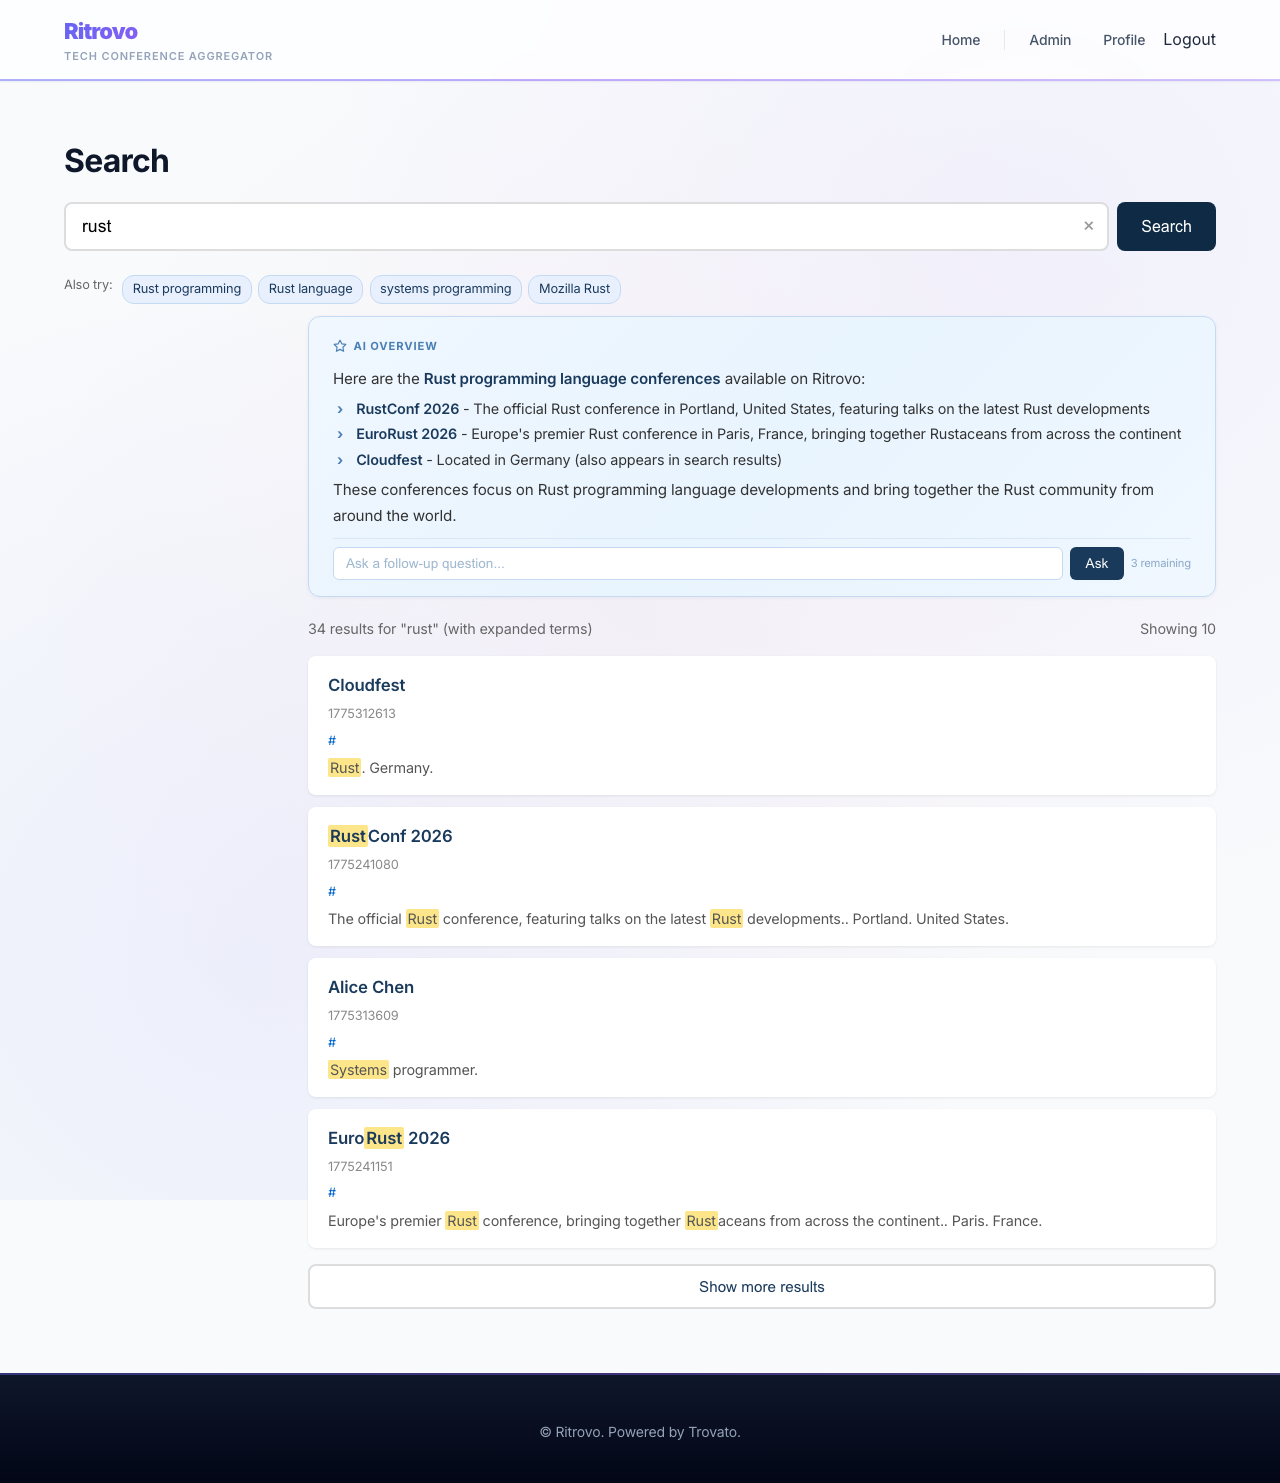
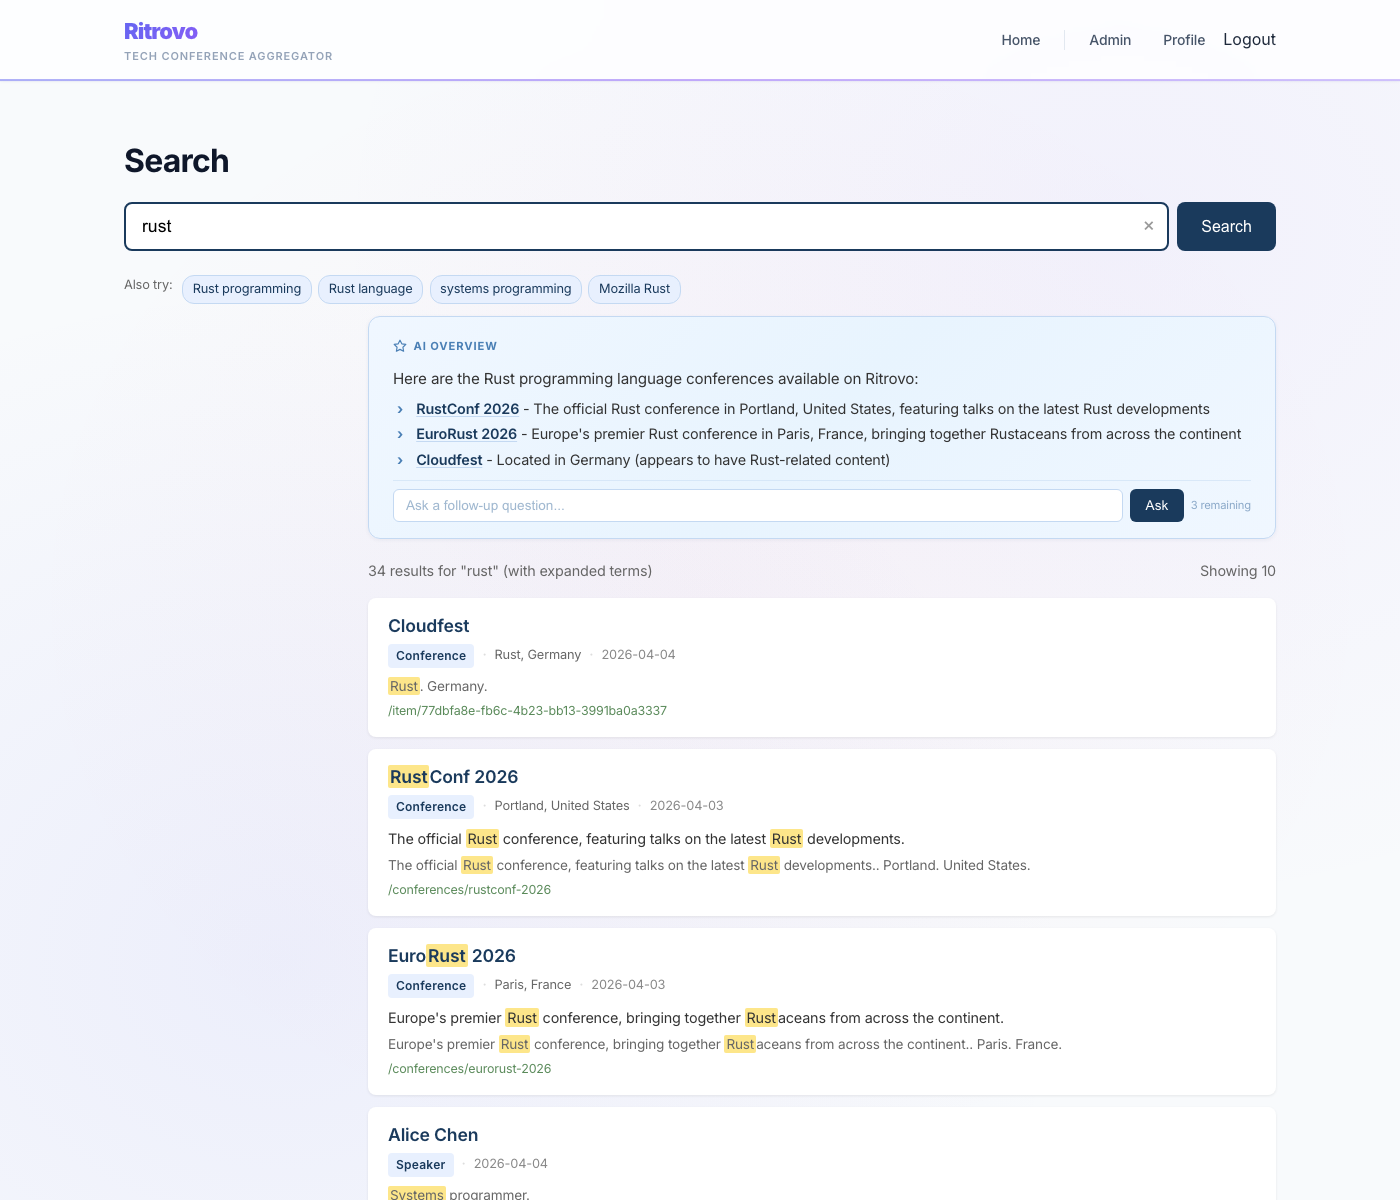
feat: enrich search results with metadata, friendly URLs, and descriptions
Pagefind index now includes structured metadata: description, location
(city + country), event dates, and content type. URL aliases are
batch-loaded so result links use friendly paths (/conferences/rustconf-2026)
instead of /item/{uuid}. Dates formatted as YYYY-MM-DD instead of raw
unix timestamps.

scolta.js renders richer result cards with type badges, location, event
dates, descriptions, and dot-separated metadata. Auto-searches from URL
?q= parameter on page load. scolta.css adds styles for new metadata
elements with visual separators.

diff --git a/static/js/scolta.js b/static/js/scolta.js
@@ -377,6 +377,11 @@
     return text.replace(/<[^>]*>/g, "");
   }
 
+  // Convert machine_name type to display label: "conference" → "Conference"
+  function formatTypeName(t) {
+    return t.replace(/_/g, " ").replace(/\b\w/g, function (c) { return c.toUpperCase(); });
+  }
+
   // Build LLM context string from an array of scored results.
   // Top 2 results get full page content for depth; remaining get excerpts.
   function buildLLMContext(results) {
@@ -1065,9 +1070,13 @@
     for (let i = displayedCount; i < showing; i++) {
       const { data } = filtered[i];
       const title = data.meta?.title || "Untitled";
-      const url = data.meta?.url || "#";
+      const url = data.meta?.url || data.url || "#";
       const site = data.meta?.site || "";
       const date = data.meta?.date || "";
+      const itemType = data.meta?.type || "";
+      const location = data.meta?.location || "";
+      const eventDates = data.meta?.event_dates || "";
+      const description = data.meta?.description || "";
       const excerpt = bestExcerpt(data, CONFIG.EXCERPT_LENGTH);
       if (excerpt === null) continue; // Skip false-positive results
       const highlighted = highlightTerms(excerpt);
@@ -1075,15 +1084,37 @@
       const safeTitle = escapeHtml(stripHtml(title));
       const displayTitle = safeTitle.length > 90 ? safeTitle.substring(0, 87) + "\u2026" : safeTitle;
 
+      // Build metadata chips (type badge, location, dates)
+      let metaHtml = "";
+      if (itemType) {
+        metaHtml += `<span class="scolta-type-badge">${escapeHtml(formatTypeName(itemType))}</span>`;
+      } else if (site) {
+        metaHtml += `<span class="scolta-site-badge">${escapeHtml(site)}</span>`;
+      }
+      if (location) {
+        metaHtml += `<span class="scolta-result-location">${escapeHtml(location)}</span>`;
+      }
+      if (eventDates) {
+        metaHtml += `<span class="scolta-result-event-dates">${escapeHtml(eventDates)}</span>`;
+      } else if (date) {
+        metaHtml += `<span class="scolta-result-date">${escapeHtml(date)}</span>`;
+      }
+
+      // Show description if available, otherwise fall back to search excerpt
+      let bodyHtml = "";
+      if (description) {
+        bodyHtml += `<div class="scolta-result-description">${highlightTerms(escapeHtml(description))}</div>`;
+      }
+      if (highlighted && highlighted !== escapeHtml(description)) {
+        bodyHtml += `<div class="scolta-result-excerpt">${highlighted}</div>`;
+      }
+
       html += `<div class="scolta-result-card">
-        <a class="scolta-result-title" href="${url}" target="_blank" rel="noopener"
+        <a class="scolta-result-title" href="${url}"
            title="${safeTitle.replace(/"/g, '&quot;')}">${highlightTerms(displayTitle)}</a>
-        <div class="scolta-result-meta">
-          ${site ? `<span class="scolta-site-badge">${escapeHtml(site)}</span>` : ""}
-          ${date ? `<span class="scolta-result-date">${escapeHtml(date)}</span>` : ""}
-        </div>
-        <a class="scolta-result-url" href="${url}" target="_blank" rel="noopener">${escapeHtml(url)}</a>
-        <div class="scolta-result-excerpt">${highlighted}</div>
+        <div class="scolta-result-meta">${metaHtml}</div>
+        ${bodyHtml}
+        <a class="scolta-result-url" href="${url}">${escapeHtml(url)}</a>
       </div>`;
     }
 
@@ -1207,6 +1238,23 @@
 
     // Init Pagefind.
     initPagefind();
+
+    // Auto-search from URL ?q= parameter.
+    var params = new URLSearchParams(window.location.search);
+    var urlQuery = params.get("q");
+    if (urlQuery) {
+      els.queryInput.value = urlQuery;
+      els.searchClear.style.display = "block";
+      // Wait for Pagefind to be ready before searching.
+      var autoSearchInterval = setInterval(function () {
+        if (pagefind) {
+          clearInterval(autoSearchInterval);
+          doSearch();
+        }
+      }, 100);
+      // Safety timeout — stop trying after 5 seconds.
+      setTimeout(function () { clearInterval(autoSearchInterval); }, 5000);
+    }
 
     console.log("[scolta] Initialized");
   }

diff --git a/static/css/scolta.css b/static/css/scolta.css
@@ -119,53 +119,71 @@
 }
 .scolta-result-card:hover { box-shadow: 0 2px 8px rgba(0,0,0,0.12); }
 .scolta-result-title {
-  font-size: 1.05rem;
+  font-size: 1.1rem;
   font-weight: 600;
   color: var(--scolta-primary);
   text-decoration: none;
   display: block;
-  margin-bottom: 0.3rem;
-  overflow: hidden;
-  text-overflow: ellipsis;
-  white-space: nowrap;
+  margin-bottom: 0.35rem;
+  line-height: 1.35;
 }
 .scolta-result-title:hover { text-decoration: underline; }
 .scolta-result-meta {
   display: flex;
   gap: 0.5rem;
   align-items: center;
-  margin-bottom: 0.4rem;
+  margin-bottom: 0.5rem;
   flex-wrap: wrap;
 }
-.scolta-site-badge {
+.scolta-site-badge,
+.scolta-type-badge {
   display: inline-block;
   background: var(--scolta-badge-bg);
   color: var(--scolta-primary);
-  padding: 0.1rem 0.45rem;
+  padding: 0.15rem 0.5rem;
   border-radius: 4px;
   font-size: 0.75rem;
   font-weight: 600;
+  letter-spacing: 0.02em;
+}
+.scolta-result-location,
+.scolta-result-event-dates {
+  font-size: 0.8rem;
+  color: var(--scolta-text-muted);
+}
+.scolta-result-meta > span + span::before {
+  content: "\00b7";
+  margin-right: 0.5rem;
+  color: var(--scolta-border);
+  font-weight: 700;
 }
 .scolta-result-date {
   font-size: 0.8rem;
   color: var(--scolta-text-light);
 }
+.scolta-result-description {
+  font-size: 0.9rem;
+  color: var(--scolta-text);
+  line-height: 1.6;
+  margin-bottom: 0.3rem;
+}
 .scolta-result-url {
-  font-size: 0.8rem;
-  color: #0066cc;
+  font-size: 0.78rem;
+  color: #5a8a5a;
   text-decoration: none;
   overflow: hidden;
   text-overflow: ellipsis;
   white-space: nowrap;
   display: block;
   max-width: 100%;
+  margin-top: 0.3rem;
 }
 .scolta-result-url:hover { text-decoration: underline; }
 .scolta-result-excerpt {
-  font-size: 0.9rem;
-  color: #555;
-  line-height: 1.6;
-  margin-top: 0.3rem;
+  font-size: 0.85rem;
+  color: #666;
+  line-height: 1.55;
+  margin-top: 0.15rem;
   display: -webkit-box;
   -webkit-line-clamp: 3;
   -webkit-box-orient: vertical;
@@ -176,6 +194,7 @@
   font-style: italic;
 }
 .scolta-result-excerpt mark,
+.scolta-result-description mark,
 .scolta-result-title mark {
   background: var(--scolta-highlight);
   color: inherit;

diff --git a/crates/kernel/src/cron/pagefind.rs b/crates/kernel/src/cron/pagefind.rs
@@ -32,6 +32,13 @@ struct IndexableItem {
     created: i64,
 }
 
+/// Row type for URL alias lookup.
+#[derive(sqlx::FromRow)]
+struct AliasRow {
+    source: String,
+    alias: String,
+}
+
 /// Row type for search field configuration.
 #[derive(sqlx::FromRow)]
 struct FieldConfigRow {
@@ -152,26 +159,87 @@ async fn build_index_inner(pool: &PgPool, static_dir: &Path, temp_dir: &Path) ->
             .push(row.field_name.clone());
     }
 
+    // Batch-load URL aliases for all items so we can use friendly paths.
+    let alias_rows = sqlx::query_as::<_, AliasRow>(
+        "SELECT source, alias FROM url_alias WHERE source LIKE '/item/%'",
+    )
+    .fetch_all(pool)
+    .await
+    .unwrap_or_default();
+
+    let alias_map: HashMap<String, String> = alias_rows
+        .into_iter()
+        .map(|r| (r.source, r.alias))
+        .collect();
+
     let count = items.len();
     debug!(count = count, "exporting items for pagefind");
 
-    // Write each item as an HTML fragment
+    // Write each item as an HTML fragment with rich metadata
     for item in &items {
         let body = extract_searchable_text(&item.fields, &item.item_type, &config_map);
+
+        // Use friendly URL alias if available, otherwise /item/{id}
+        let source_path = format!("/item/{}", item.id);
+        let url = alias_map.get(&source_path).cloned().unwrap_or(source_path);
+
+        // Extract structured metadata from fields for richer result cards
+        let description = extract_field_text(&item.fields, "field_description")
+            .or_else(|| extract_field_text(&item.fields, "field_body"))
+            .unwrap_or_default();
+        // Strip HTML and truncate for a clean description meta
+        let description_clean = ammonia::clean(&description);
+        let description_meta = truncate_meta(&description_clean, 200);
+
+        let location = build_location_meta(&item.fields);
+        let date_range = build_date_range_meta(&item.fields);
+
+        // Format created date as human-readable
+        let created_display = format_unix_date(item.created);
+
+        let mut meta_tags = format!(
+            "<meta data-pagefind-meta=\"type:{}\" />\n\
+             <meta data-pagefind-meta=\"date:{}\" />",
+            html_escape(&item.item_type),
+            html_escape(&created_display),
+        );
+
+        if !description_meta.is_empty() {
+            meta_tags.push_str(&format!(
+                "\n<meta data-pagefind-meta=\"description:{}\" />",
+                html_escape(&description_meta)
+            ));
+        }
+        if !location.is_empty() {
+            meta_tags.push_str(&format!(
+                "\n<meta data-pagefind-meta=\"location:{}\" />",
+                html_escape(&location)
+            ));
+        }
+        if !date_range.is_empty() {
+            meta_tags.push_str(&format!(
+                "\n<meta data-pagefind-meta=\"event_dates:{}\" />",
+                html_escape(&date_range)
+            ));
+        }
+
+        // Store the item URL as a meta tag. Pagefind treats `url` as
+        // a special key that overrides the auto-detected file URL.
+        meta_tags.push_str(&format!(
+            "\n<meta data-pagefind-meta=\"url:{}\" />",
+            html_escape(&url)
+        ));
+
         let html = format!(
-            r#"<html><head><title>{title}</title></head>
-<body>
-<h1 data-pagefind-meta="title">{title}</h1>
-<div data-pagefind-body>{body}</div>
-<meta data-pagefind-meta="type:{item_type}" />
-<meta data-pagefind-meta="date:{created}" />
-<a data-pagefind-meta="url" href="/item/{id}"></a>
-</body></html>"#,
+            "<html><head><title>{title}</title></head>\n\
+             <body>\n\
+             <h1 data-pagefind-meta=\"title\">{title}</h1>\n\
+             <div data-pagefind-body>{body}</div>\n\
+             {meta_tags}\n\
+             </body></html>",
             title = html_escape(&item.title),
             body = html_escape(&body),
-            item_type = html_escape(&item.item_type),
-            created = item.created,
-            id = item.id,
+            meta_tags = meta_tags,
         );
 
         let file_path = temp_dir.join(format!("{}.html", item.id));
@@ -244,10 +312,49 @@ async fn build_index_inner(pool: &PgPool, static_dir: &Path, temp_dir: &Path) ->
     Ok(count)
 }
 
-/// Extract searchable text from item fields using `search_field_config`.
-///
-/// Collects text from all fields configured for the item's bundle.
-/// Falls back to `field_body` if no fields are configured.
+/// Build a location string from city/country fields.
+fn build_location_meta(fields: &serde_json::Value) -> String {
+    let city = extract_field_text(fields, "field_city").unwrap_or_default();
+    let country = extract_field_text(fields, "field_country").unwrap_or_default();
+    match (city.is_empty(), country.is_empty()) {
+        (true, true) => String::new(),
+        (false, true) => city,
+        (true, false) => country,
+        (false, false) => format!("{city}, {country}"),
+    }
+}
+
+/// Build a date range string from date start/end fields.
+fn build_date_range_meta(fields: &serde_json::Value) -> String {
+    let start = extract_field_text(fields, "field_date_start").unwrap_or_default();
+    let end = extract_field_text(fields, "field_date_end").unwrap_or_default();
+    match (start.is_empty(), end.is_empty()) {
+        (true, true) => String::new(),
+        (false, true) => start,
+        (true, false) => end,
+        (false, false) => format!("{start} – {end}"),
+    }
+}
+
+/// Format a Unix timestamp as a human-readable date (YYYY-MM-DD).
+fn format_unix_date(timestamp: i64) -> String {
+    chrono::DateTime::from_timestamp(timestamp, 0)
+        .map(|dt| dt.format("%Y-%m-%d").to_string())
+        .unwrap_or_else(|| timestamp.to_string())
+}
+
+/// Truncate a string to at most `max_len` bytes on a char boundary.
+fn truncate_meta(s: &str, max_len: usize) -> String {
+    if s.len() <= max_len {
+        return s.to_string();
+    }
+    let mut end = max_len;
+    while end > 0 && !s.is_char_boundary(end) {
+        end -= 1;
+    }
+    format!("{}…", &s[..end])
+}
+
 /// Extract searchable text from item fields, ordered by search weight.
 ///
 /// Higher-weight fields (A=description, B=body) come first so Pagefind's
